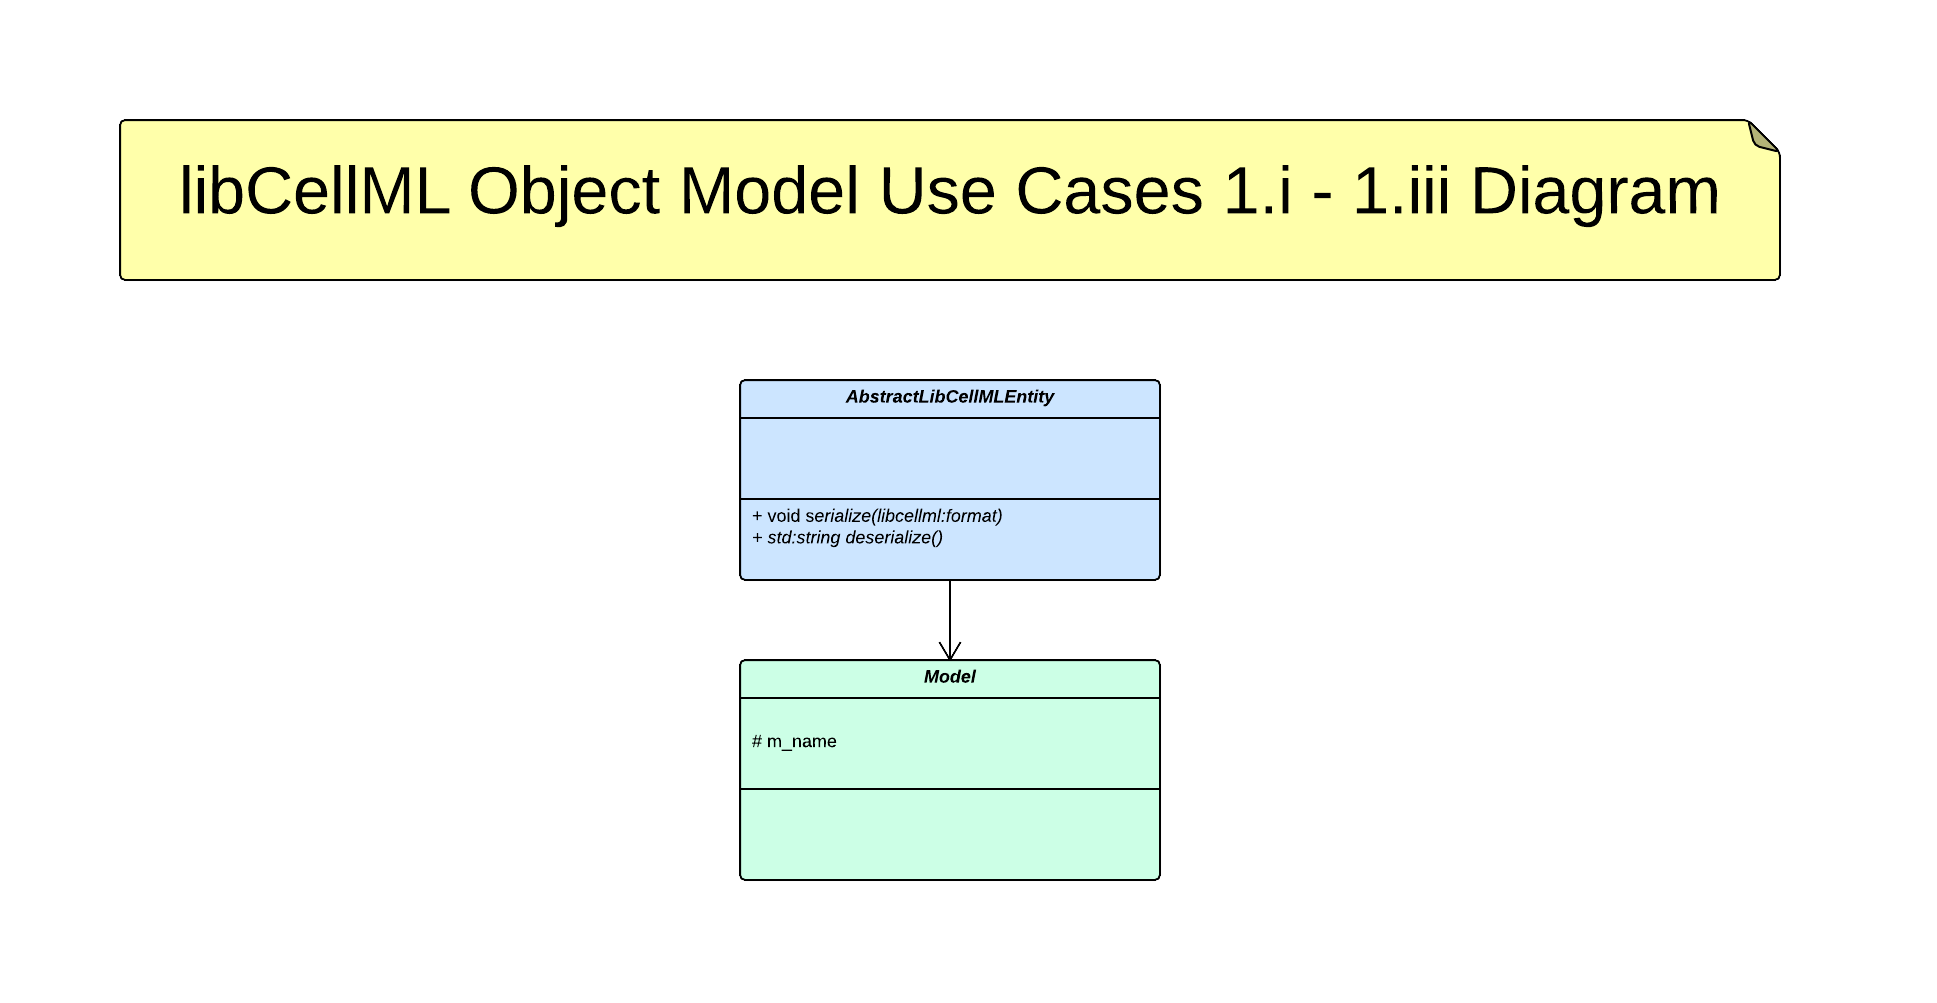
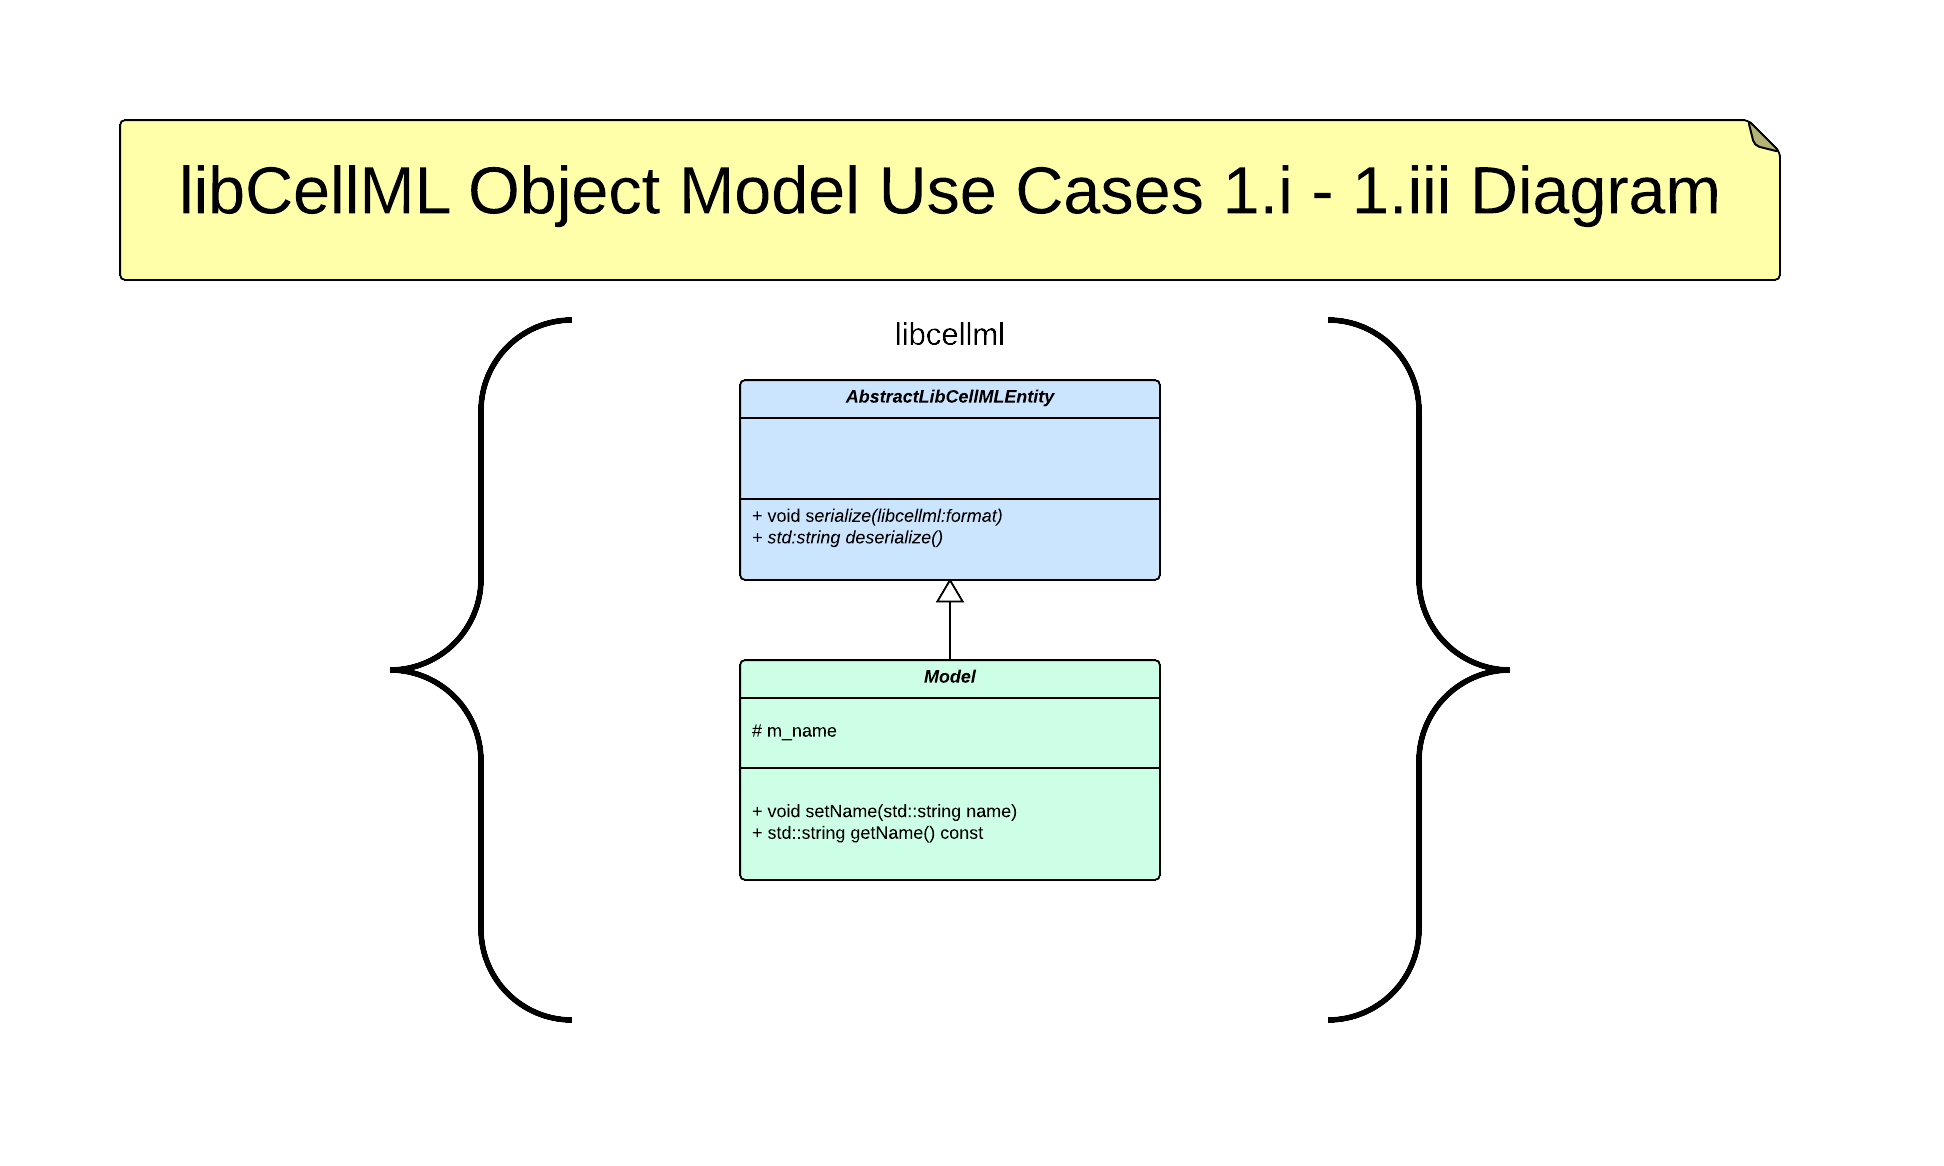
Update object model diagrams to be more UML like.  Add link to use-cases document.

diff --git a/docs/object_model.rst b/docs/object_model.rst
@@ -1,3 +1,4 @@
+.. _libCellMLObjectModel:
 
 ======================
 libCellML Object Model
@@ -6,15 +7,17 @@ libCellML Object Model
 Introduction
 ============
 
-The object model described by this document is a very high level conceptual design. The focus is on a design to support the initial use cases from the use case document (TODO: add link).  This document is organic and is expected to change in accordance with community decisions/discussion.
+The object model described by this document is a very high level conceptual design. The focus is on a design to support the initial use cases from the use case document :doc:`Use-cases for libCellML <usecases>`.  This document is organic and is expected to change in accordance with community decisions/discussion.
 
 Overview of Object Model
 ========================
 
 .. figure:: images/libCellMLRoughObjectModel-Overview.png
+   :alt: libCellML Overview Object Model
 
 Object Model for Use Cases 1.i - 1.iii
 ======================================
 
 .. figure:: images/libCellMLRoughObjectModel-UseCases1.i-1.iii.png
+   :alt: libCellML Object Model for use cases 1.i - 1.iii
 

diff --git a/docs/usecases.rst b/docs/usecases.rst
@@ -1,3 +1,4 @@
+.. _libCellMLUseCases:
 
 =======================
 Use-cases for libCellML
@@ -72,3 +73,4 @@ Use-cases for libCellML
 #. Import CellML 1.0/1.1 models
 
 #. Export CellML 1.1 (and by extension CellML 1.0)
+
